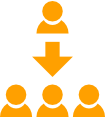
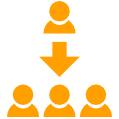
improved responsiveness on header.

diff --git a/wp-content/themes/champions/style-rtl.css b/wp-content/themes/champions/style-rtl.css
@@ -3717,6 +3717,12 @@ body.page .main-navigation {
   }
 }
 
+@media only screen and (max-width: 768px) {
+  #site-header > a > .header-text {
+    width: 75%;
+  }
+}
+
 #site-header > a > .header-text h1, #site-header > a > .header-text h2 {
   font-family: "Roboto", sans-serif;
 }
@@ -3793,6 +3799,25 @@ body.page .main-navigation {
   padding: 1rem;
   border-radius: 100%;
   box-shadow: 0px 5px 5px 0px #d1d1d1;
+}
+
+@media only screen and (max-width: 768px) {
+  .droplets .droplet-item .droplet-image {
+    padding: .5rem;
+    max-width: 85px;
+  }
+}
+
+@media only screen and (min-width: 768px) and (max-width: 1279.9px) {
+  .droplets .droplet-item .droplet-image img {
+    transform: scale(0.75);
+  }
+}
+
+@media only screen and (max-width: 768px) {
+  .droplets .droplet-item .droplet-image img {
+    transform: scale(0.5);
+  }
 }
 
 section.content-section {

diff --git a/wp-content/themes/champions/style.css b/wp-content/themes/champions/style.css
@@ -3807,6 +3807,26 @@ body.page .main-navigation {
   box-shadow: 0px 5px 5px 0px #d1d1d1;
 }
 
+@media only screen and (max-width: 768px) {
+  .droplets .droplet-item .droplet-image {
+    padding: .5rem;
+    max-width: 85px;
+    max-height: 85px;
+  }
+}
+
+@media only screen and (min-width: 768px) and (max-width: 1279.9px) {
+  .droplets .droplet-item .droplet-image img {
+    transform: scale(0.75);
+  }
+}
+
+@media only screen and (max-width: 768px) {
+  .droplets .droplet-item .droplet-image img {
+    transform: scale(0.5);
+  }
+}
+
 section.content-section {
   display: flex;
   flex-flow: row nowrap;

diff --git a/wp-content/themes/champions/sass/layout/_layout.scss b/wp-content/themes/champions/sass/layout/_layout.scss
@@ -94,6 +94,21 @@
 			padding: 1rem;
 			border-radius: 100%;
 			box-shadow: 0px 5px 5px 0px #d1d1d1;
+			@media only screen and (max-width: $tablet_width) {
+				padding: .5rem;
+				max-width: 85px;
+				max-height: 85px;
+			}
+
+			img {
+				@media only screen and (min-width: $tablet_width) and (max-width: $desktop_width) {
+					transform: scale(.75);
+				}
+				@media only screen and (max-width: $tablet_width) {
+					transform: scale(.5);
+					
+				}
+			}
 		}
 	}
 }
